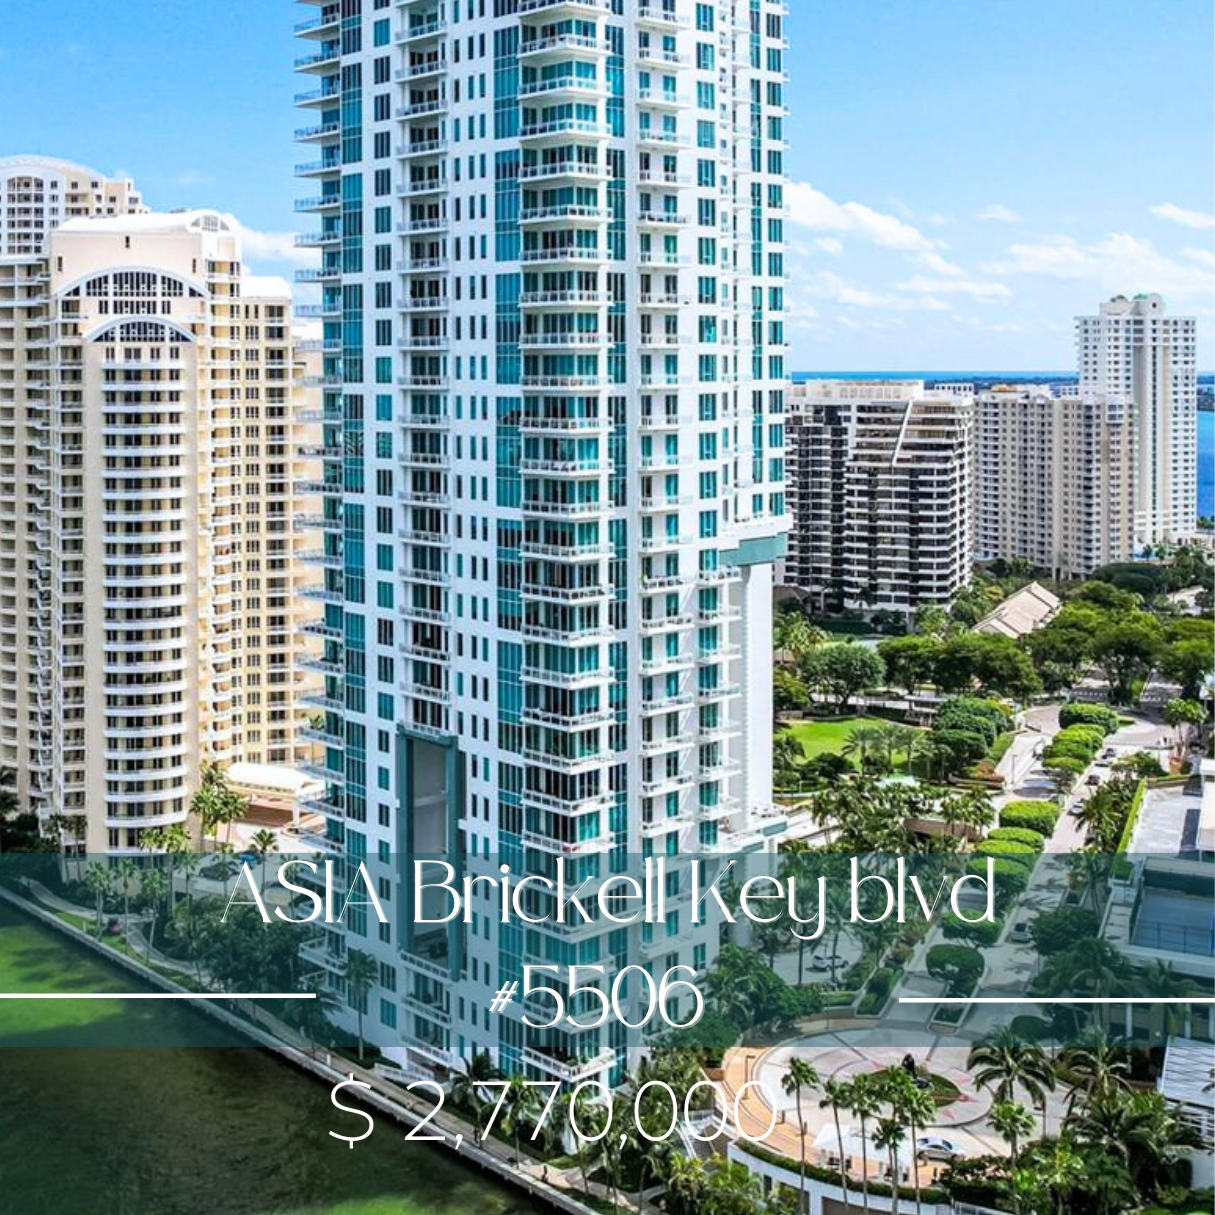
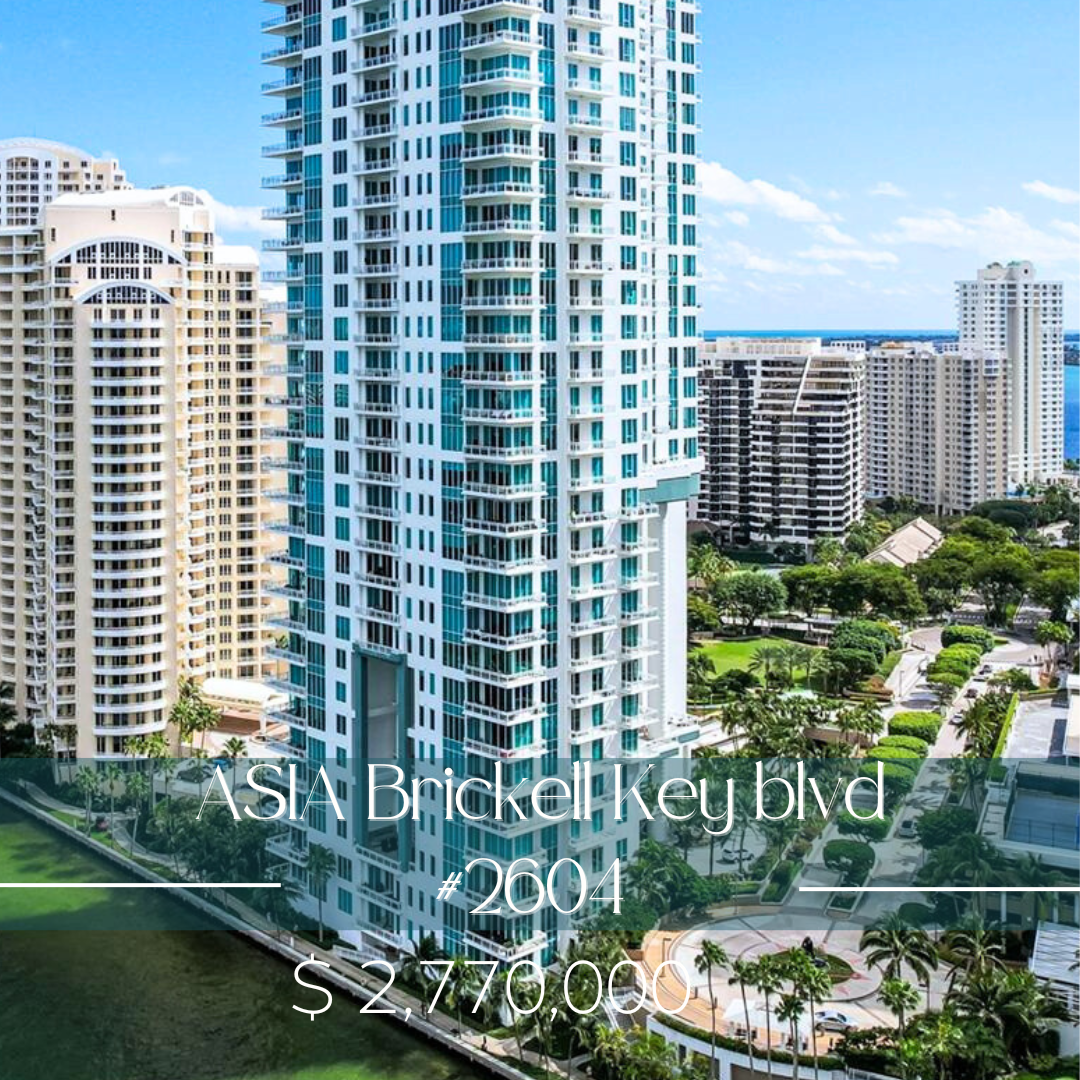
Image and listingkey

diff --git a/src/components/propertyInfo/index.js b/src/components/propertyInfo/index.js
@@ -24,7 +24,7 @@ const PropertyInfoComponent = () => {
     await fetchPropertieById(params.id)
       .then((response) => {
         console.log(response);
-        setData(response);
+        setData(response.value[0]);
       })
       .finally(() => {
         setLoading(false);
@@ -36,84 +36,86 @@ const PropertyInfoComponent = () => {
   }, []);
 
   return (
-    <>
-      {/* Main Header Nav */}
-      <DefaultHeader />
-      {/* End Main Header Nav */}
+    !loading && (
+      <>
+        {/* Main Header Nav */}
+        <DefaultHeader />
+        {/* End Main Header Nav */}
 
-      {/* Mobile Nav  */}
-      <MobileMenu />
-      {/* End Mobile Nav  */}
+        {/* Mobile Nav  */}
+        <MobileMenu />
+        {/* End Mobile Nav  */}
 
-      {/* Property Slider Gallery */}
-      <div className="row mt30">
-        <PropertyGallery data={data} />
-      </div>
-      {/* End Property Slider Gallery */}
-
-      {/* Property All Single V4 */}
-      <section className="pt30 pb90 bgc-f7 paddingHorizontal">
-        <div className="container">
-          <div className="row sp-v5-property-details pl50 pr50">
-            <PropertyHeader data={data} />
-          </div>
-          {/* End .row */}
-
-          <div className="row mt50 mt30-lg">
-            <div className="col-lg-6">
-              <div className="ps-widget bgc-white bdrs12 default-box-shadow2 p30 mb30 overflow-hidden position-relative">
-                <h4 className="title fz17 mb30">Overview</h4>
-                <div className="row">
-                  <OverView data={data} />
-                </div>
-              </div>
-              {/* End .ps-widget */}
-
-              <div className="ps-widget bgc-white bdrs12 default-box-shadow2 p30 mb30 overflow-hidden position-relative">
-                <h4 className="title fz17 mb30">Property Description</h4>
-                <ProperytyDescriptions data={data} />
-                {/* End property description */}
-
-                <h4 className="title fz17 mb30 mt50">Property Details</h4>
-                <div className="row">
-                  <PropertyDetails data={data} />
-                </div>
-              </div>
-              {/* End .ps-widget */}
-
-              <div className="ps-widget bgc-white bdrs12 default-box-shadow2 p30 mb30 overflow-hidden position-relative">
-                <h4 className="title fz17 mb30 mt30">Address</h4>
-                <div className="row">
-                  <PropertyAddress data={data} />
-                </div>
-              </div>
-            </div>
-            {/* End .col-8 */}
-
-            <div className="col-lg-6">
-              <div className="column">
-                <div className="ps-widget bgc-white bdrs12 default-box-shadow2 p30 mb30 overflow-hidden position-relative">
-                  <h4 className="title fz17 mb30">Get More Information</h4>
-                  <InfoWithForm />
-                </div>
-                {/* End Get More Information */}
-              </div>
-            </div>
-          </div>
-          {/* End .row */}
+        {/* Property Slider Gallery */}
+        <div className="row mt30">
+          <PropertyGallery data={data} />
         </div>
-        {/* End .container */}
-      </section>
-      {/* End Property All Single V4  */}
+        {/* End Property Slider Gallery */}
 
-      {/* Start similar-items  */}
+        {/* Property All Single V4 */}
+        <section className="pt30 pb90 bgc-f7 paddingHorizontal">
+          <div className="container">
+            <div className="row sp-v5-property-details pl50 pr50">
+              <PropertyHeader data={data} />
+            </div>
+            {/* End .row */}
 
-      {/* Start Our Footer */}
-      <section className="footer-style1 pt60 pb-0">
-        <Footer />
-      </section>
-      {/* End Our Footer */}
-    </>
+            <div className="row mt50 mt30-lg">
+              <div className="col-lg-6">
+                <div className="ps-widget bgc-white bdrs12 default-box-shadow2 p30 mb30 overflow-hidden position-relative">
+                  <h4 className="title fz17 mb30">Overview</h4>
+                  <div className="row">
+                    <OverView data={data} />
+                  </div>
+                </div>
+                {/* End .ps-widget */}
+
+                <div className="ps-widget bgc-white bdrs12 default-box-shadow2 p30 mb30 overflow-hidden position-relative">
+                  <h4 className="title fz17 mb30">Property Description</h4>
+                  <ProperytyDescriptions data={data} />
+                  {/* End property description */}
+
+                  <h4 className="title fz17 mb30 mt50">Property Details</h4>
+                  <div className="row">
+                    <PropertyDetails data={data} />
+                  </div>
+                </div>
+                {/* End .ps-widget */}
+
+                <div className="ps-widget bgc-white bdrs12 default-box-shadow2 p30 mb30 overflow-hidden position-relative">
+                  <h4 className="title fz17 mb30 mt30">Address</h4>
+                  <div className="row">
+                    <PropertyAddress data={data} />
+                  </div>
+                </div>
+              </div>
+              {/* End .col-8 */}
+
+              <div className="col-lg-6">
+                <div className="column">
+                  <div className="ps-widget bgc-white bdrs12 default-box-shadow2 p30 mb30 overflow-hidden position-relative">
+                    <h4 className="title fz17 mb30">Get More Information</h4>
+                    <InfoWithForm />
+                  </div>
+                  {/* End Get More Information */}
+                </div>
+              </div>
+            </div>
+            {/* End .row */}
+          </div>
+          {/* End .container */}
+        </section>
+        {/* End Property All Single V4  */}
+
+        {/* Start similar-items  */}
+
+        {/* Start Our Footer */}
+        <section className="footer-style1 pt60 pb-0">
+          <Footer />
+        </section>
+        {/* End Our Footer */}
+      </>
+    )
   );
 };
 

diff --git a/src/components/listing/grid-view/banner-search-v1/FeatuerdListings.js b/src/components/listing/grid-view/banner-search-v1/FeatuerdListings.js
@@ -10,7 +10,7 @@ const FeaturedListings = ({ data, colstyle }) => {
       {data?.map((listing) => (
         <div
           className={` ${colstyle ? "col-sm-12" : "col-sm-6"}  `}
-          key={listing.ListingKey}
+          key={listing.ListingId}
         >
           <div
             className={
@@ -40,7 +40,7 @@ const FeaturedListings = ({ data, colstyle }) => {
               </div>
               <div className="list-meta">
                 <a
-                  href={`/property-details/${listing.ListingKey}`}
+                  href={`/property-details/${listing.ListingId}`}
                   className="mr5"
                 >
                   <span className="flaticon-fullscreen" />

diff --git a/src/api/properties.js b/src/api/properties.js
@@ -129,7 +129,7 @@ const fetchInfo = async (page, filters, rentOrSale, statusType, top) => {
 
 const fetchPropertieById = async (id) => {
   const xApiKey = process.env.REACT_APP_REALTY_X_API_KEY;
-  const url = `https://api.realtyfeed.com/reso/odata/Property('${id}')`;
+  const url = `https://api.realtyfeed.com/reso/odata/Property?filter=ListingId eq '${id}'`;
   const token = await getToken();
 
   const response = await fetch(url, {

diff --git a/src/components/home/FeatuerdListings.js b/src/components/home/FeatuerdListings.js
@@ -68,7 +68,7 @@ const FeaturedListings = ({ properties }) => {
 
                   <div className="list-meta">
                     <a
-                      href={`/property-details/${listing.ListingKey}`}
+                      href={`/property-details/${listing.ListingId}`}
                       className="mr5"
                     >
                       <span className="flaticon-fullscreen" />
